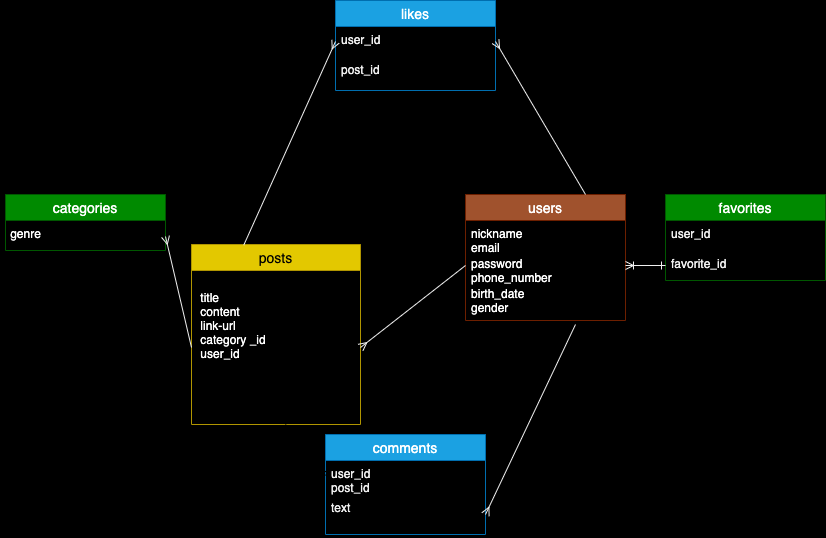
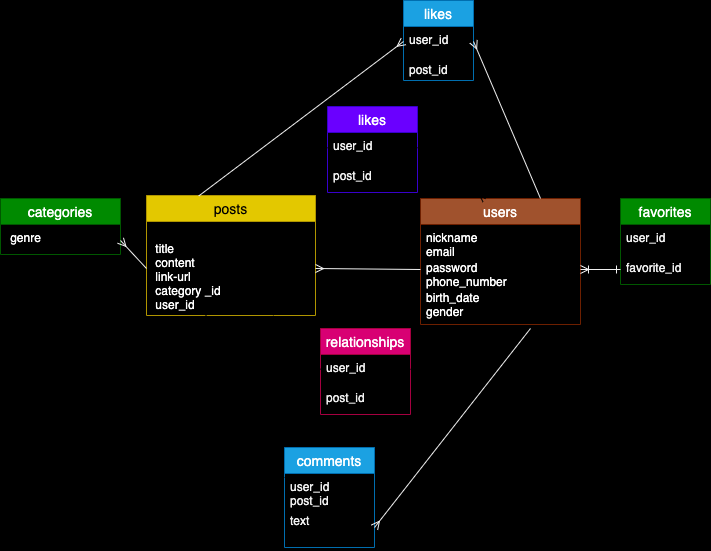
modificate ER & README

diff --git a/README.md b/README.md
@@ -46,7 +46,7 @@ Basic認証パスワード: 8817
   
  投稿された画像に対して”いいね”や”お気に入り登録”をすることができます。また、自分が好きなユーザーをフォローをする機能を
  実装しました。
- 
+
 [![Image from Gyazo](https://i.gyazo.com/4b5fea91e0103c70eeb3c3e1b7754c85.png)](https://i.gyazo.com/4b5fea91e0103c70eeb3c3e1b7754c85.png)
 
 ## 実装予定の機能
@@ -55,7 +55,7 @@ Basic認証パスワード: 8817
 
 ## データベース設計
 
-[![Image from Gyazo](https://i.gyazo.com/9304ca08b7fbbd088c106cc5441b8808.png)](https://i.gyazo.com/9304ca08b7fbbd088c106cc5441b8808.png)
+[![Image from Gyazo](https://i.gyazo.com/ae8d554ddd5afec22618b144e5d051d2.png)](https://i.gyazo.com/ae8d554ddd5afec22618b144e5d051d2.png)
 
 ## 画面遷移図
 
